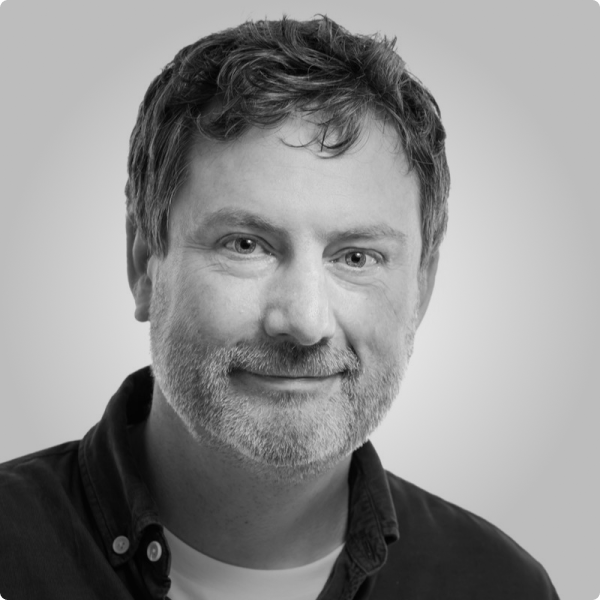
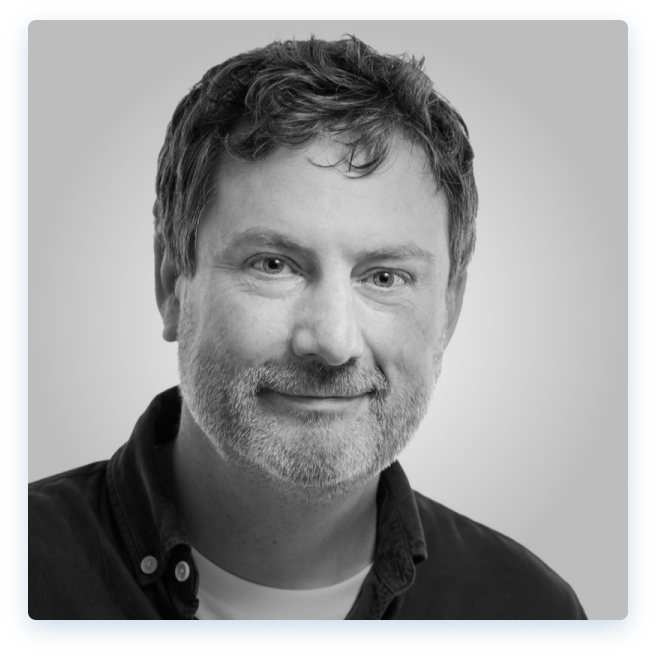
Added accent lines to profile images.

diff --git a/src/pages/index.js b/src/pages/index.js
@@ -274,6 +274,8 @@ const IndexPage = () => {
                         <div className="col-md-4">
                             <div className="profile-first">
                                 <StaticImage src="../images/James_Hill_img.png" />
+                                <span className="accent-line line-horizontal"></span>
+                                <span className="accent-line line-vertical"></span>
                             </div>
                         </div>
                         <div className="col-md-8 profile-text">
@@ -289,6 +291,8 @@ const IndexPage = () => {
                         <div className="col-md-4 order-md-2">
                             <div className="profile-middle">
                                 <StaticImage src="../images/Callum_Randall_img.png" />
+                                <span className="accent-line line-left"></span>
+                                <span className="accent-line line-right"></span>
                             </div>
                         </div>
                         <div className="col-md-8 order-md-1 profile-text">
@@ -304,6 +308,8 @@ const IndexPage = () => {
                         <div className="col-md-4">
                             <div className="profile-last">
                                 <StaticImage src="../images/Nick_Randall_img.png" />
+                                <span className="accent-line line-horizontal-last"></span>
+                                <span className="accent-line line-vertical-last"></span>
                             </div>
                         </div>
                         <div className="col-md-8 profile-text">

diff --git a/src/styles/global.css b/src/styles/global.css
@@ -850,6 +850,47 @@ nav {
 
   .profile-first, .profile-middle, .profile-last {
     width: 100%;
+    height: 100%;
+  }
+
+  .about-profiles .accent-line {
+    background: #40F5D4;
+    height: 6px;
+    width: 92%;
+    display: block;
+    position: relative;
+  }
+
+  .about-profiles .line-horizontal {
+    bottom: 14%;
+    left: -12%;
+  }
+
+  .about-profiles .line-vertical {
+    bottom: 37%;
+    left: -34%;
+    transform: rotate(90deg);
+  }
+
+  .about-profiles .line-left {
+    bottom: 41%;
+    left: -12%;
+  }
+
+  .about-profiles .line-right {
+    bottom: 50%;
+    right: -20%;
+  }
+
+  .about-profiles .line-horizontal-last {
+    right: -20%;
+    bottom: 87%;
+  }
+
+  .about-profiles .line-vertical-last {
+    bottom: 67%;
+    left: 42%;
+    transform: rotate(90deg);
   }
 
   .profile-text {
